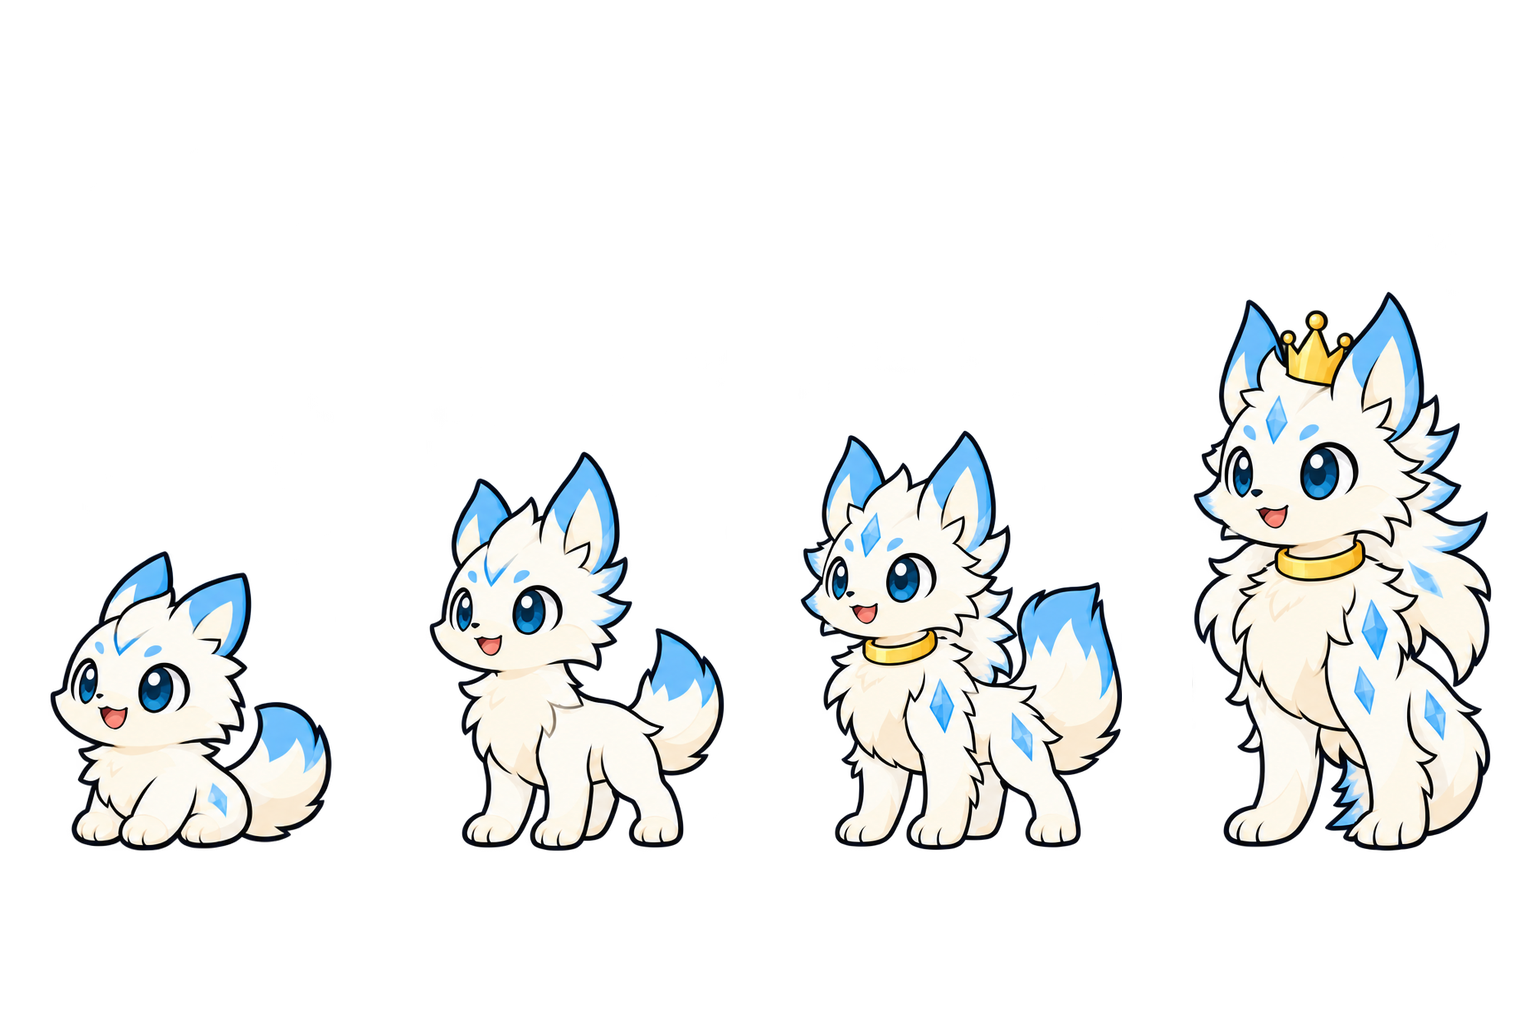
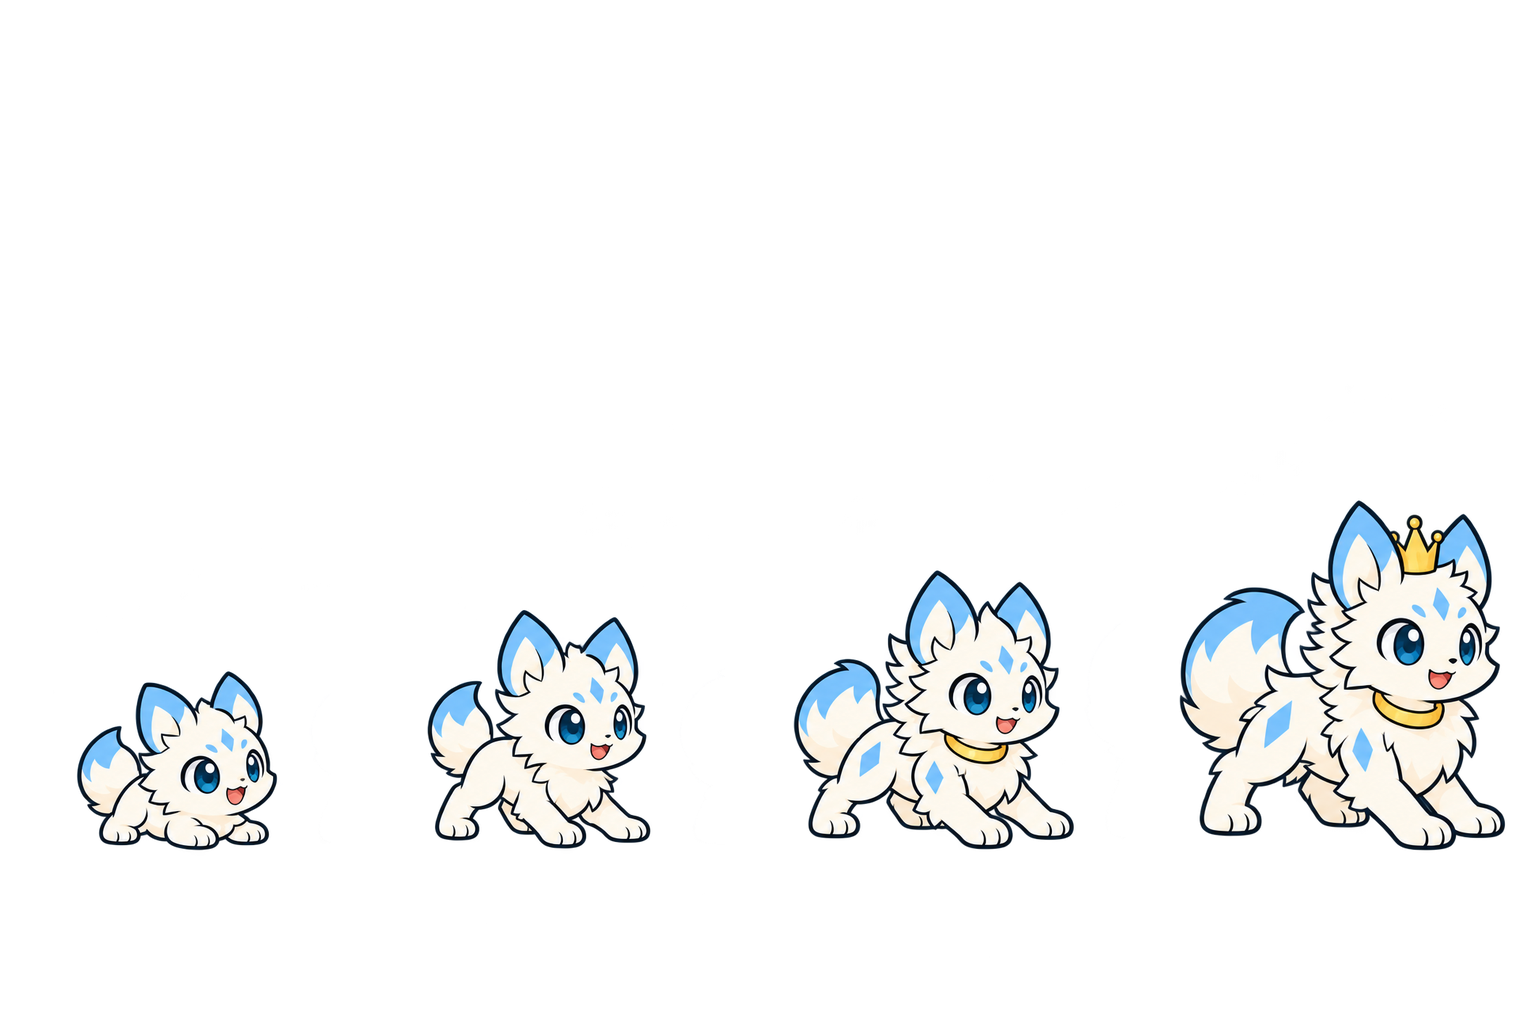
夢貘、芬里爾、九尾狐換成 v4 個性版（Q 版比例＋金飾＋動作個性）
Claude-Session: https://claude.ai/code/session_01Sx4nv6paDxCdy1rBDaMhnG

Changed region(s): [[0.5, 0.2812, 1.0, 0.8438], [0.2812, 0.4375, 0.4688, 0.8438], [0.0312, 0.5312, 0.2188, 0.8438]]

diff --git a/beasts.html b/beasts.html
@@ -5,8 +5,8 @@
 <meta name="viewport" content="width=device-width, initial-scale=1.0">
 <title>百宏文教 · 小森靈獸</title>
 <link href="https://fonts.googleapis.com/css2?family=Noto+Sans+TC:wght@400;500;700;900&display=swap" rel="stylesheet">
-<link rel="stylesheet" href="css/app.css?v=202611020547">
-<link rel="stylesheet" href="css/beasts.css?v=202611020547">
+<link rel="stylesheet" href="css/app.css?v=202611020645">
+<link rel="stylesheet" href="css/beasts.css?v=202611020645">
 </head>
 <body>
 <div class="loading-overlay" id="loadingOverlay"><div class="spinner"></div><div class="loading-text" id="loadingText">處理中...</div></div>
@@ -193,6 +193,6 @@
   <div class="pj-banner" id="pjBanner"></div>
 </div>
 
-<script type="module" src="js/beasts.js?v=202611020547"></script>
+<script type="module" src="js/beasts.js?v=202611020645"></script>
 </body>
 </html>

diff --git a/index.html b/index.html
@@ -5,7 +5,7 @@
 <meta name="viewport" content="width=device-width, initial-scale=1.0">
 <title>百宏文教 · 教室日誌與電訪表</title>
 <link href="https://fonts.googleapis.com/css2?family=Noto+Sans+TC:wght@400;500;700;900&display=swap" rel="stylesheet">
-<link rel="stylesheet" href="css/app.css?v=202611020547">
+<link rel="stylesheet" href="css/app.css?v=202611020645">
 </head>
 <body>
 <div class="loading-overlay" id="loadingOverlay"><div class="spinner"></div><div class="loading-text" id="loadingText">處理中...</div></div>
@@ -312,8 +312,8 @@
   </div>
 </div>
 
-<script type="module" src="js/app.js?v=202611020547"></script>
-<script type="module" src="js/contacts.js?v=202611020547"></script>
+<script type="module" src="js/app.js?v=202611020645"></script>
+<script type="module" src="js/contacts.js?v=202611020645"></script>
 
 
 <!-- Admin Delete Modal -->

diff --git a/beast.html b/beast.html
@@ -6,8 +6,8 @@
 <title>我的靈獸 · 小森靈獸</title>
 <meta name="robots" content="noindex">
 <link href="https://fonts.googleapis.com/css2?family=Noto+Sans+TC:wght@400;500;700;900&display=swap" rel="stylesheet">
-<link rel="stylesheet" href="css/app.css?v=202611020547">
-<link rel="stylesheet" href="css/beasts.css?v=202611020547">
+<link rel="stylesheet" href="css/app.css?v=202611020645">
+<link rel="stylesheet" href="css/beasts.css?v=202611020645">
 <style>
   .sv{max-width:480px;margin:0 auto;padding:20px 16px 40px;}
   .sv-hero{text-align:center;padding:10px 0 4px;}
@@ -28,6 +28,6 @@
 </head>
 <body>
 <div class="sv" id="view"><div class="empty">載入中…</div></div>
-<script type="module" src="js/beast-view.js?v=202611020547"></script>
+<script type="module" src="js/beast-view.js?v=202611020645"></script>
 </body>
 </html>
